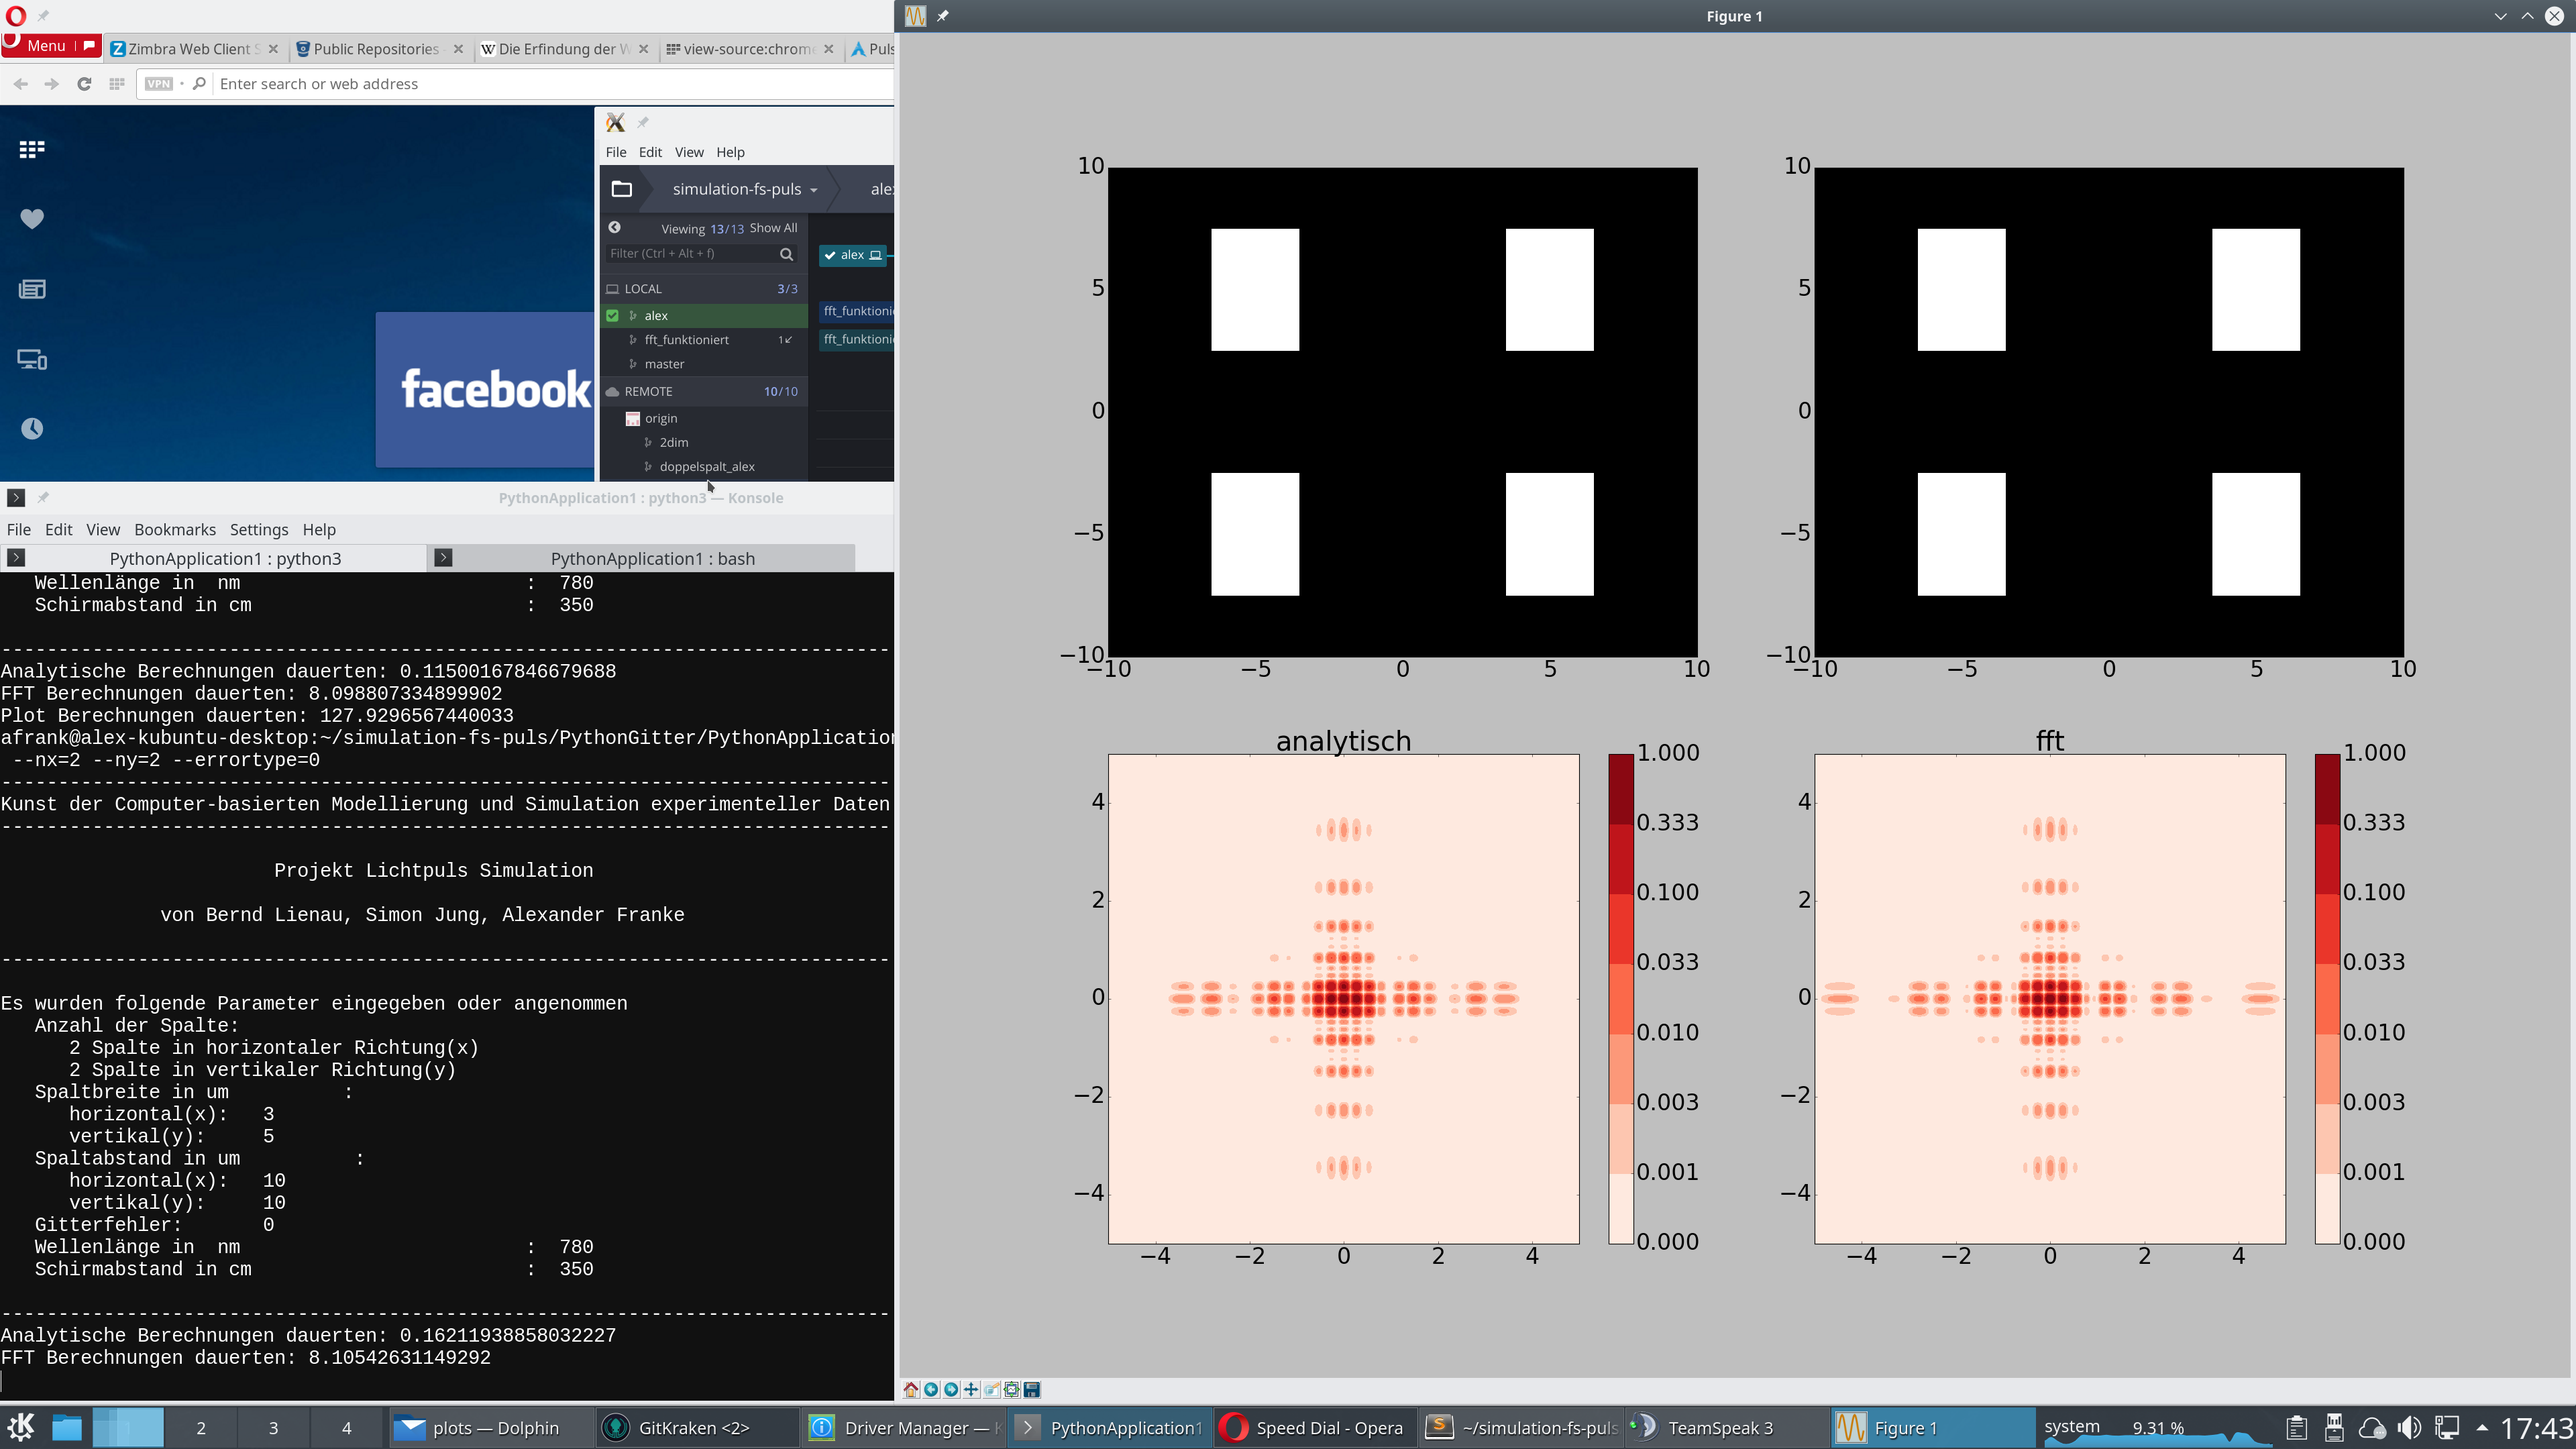
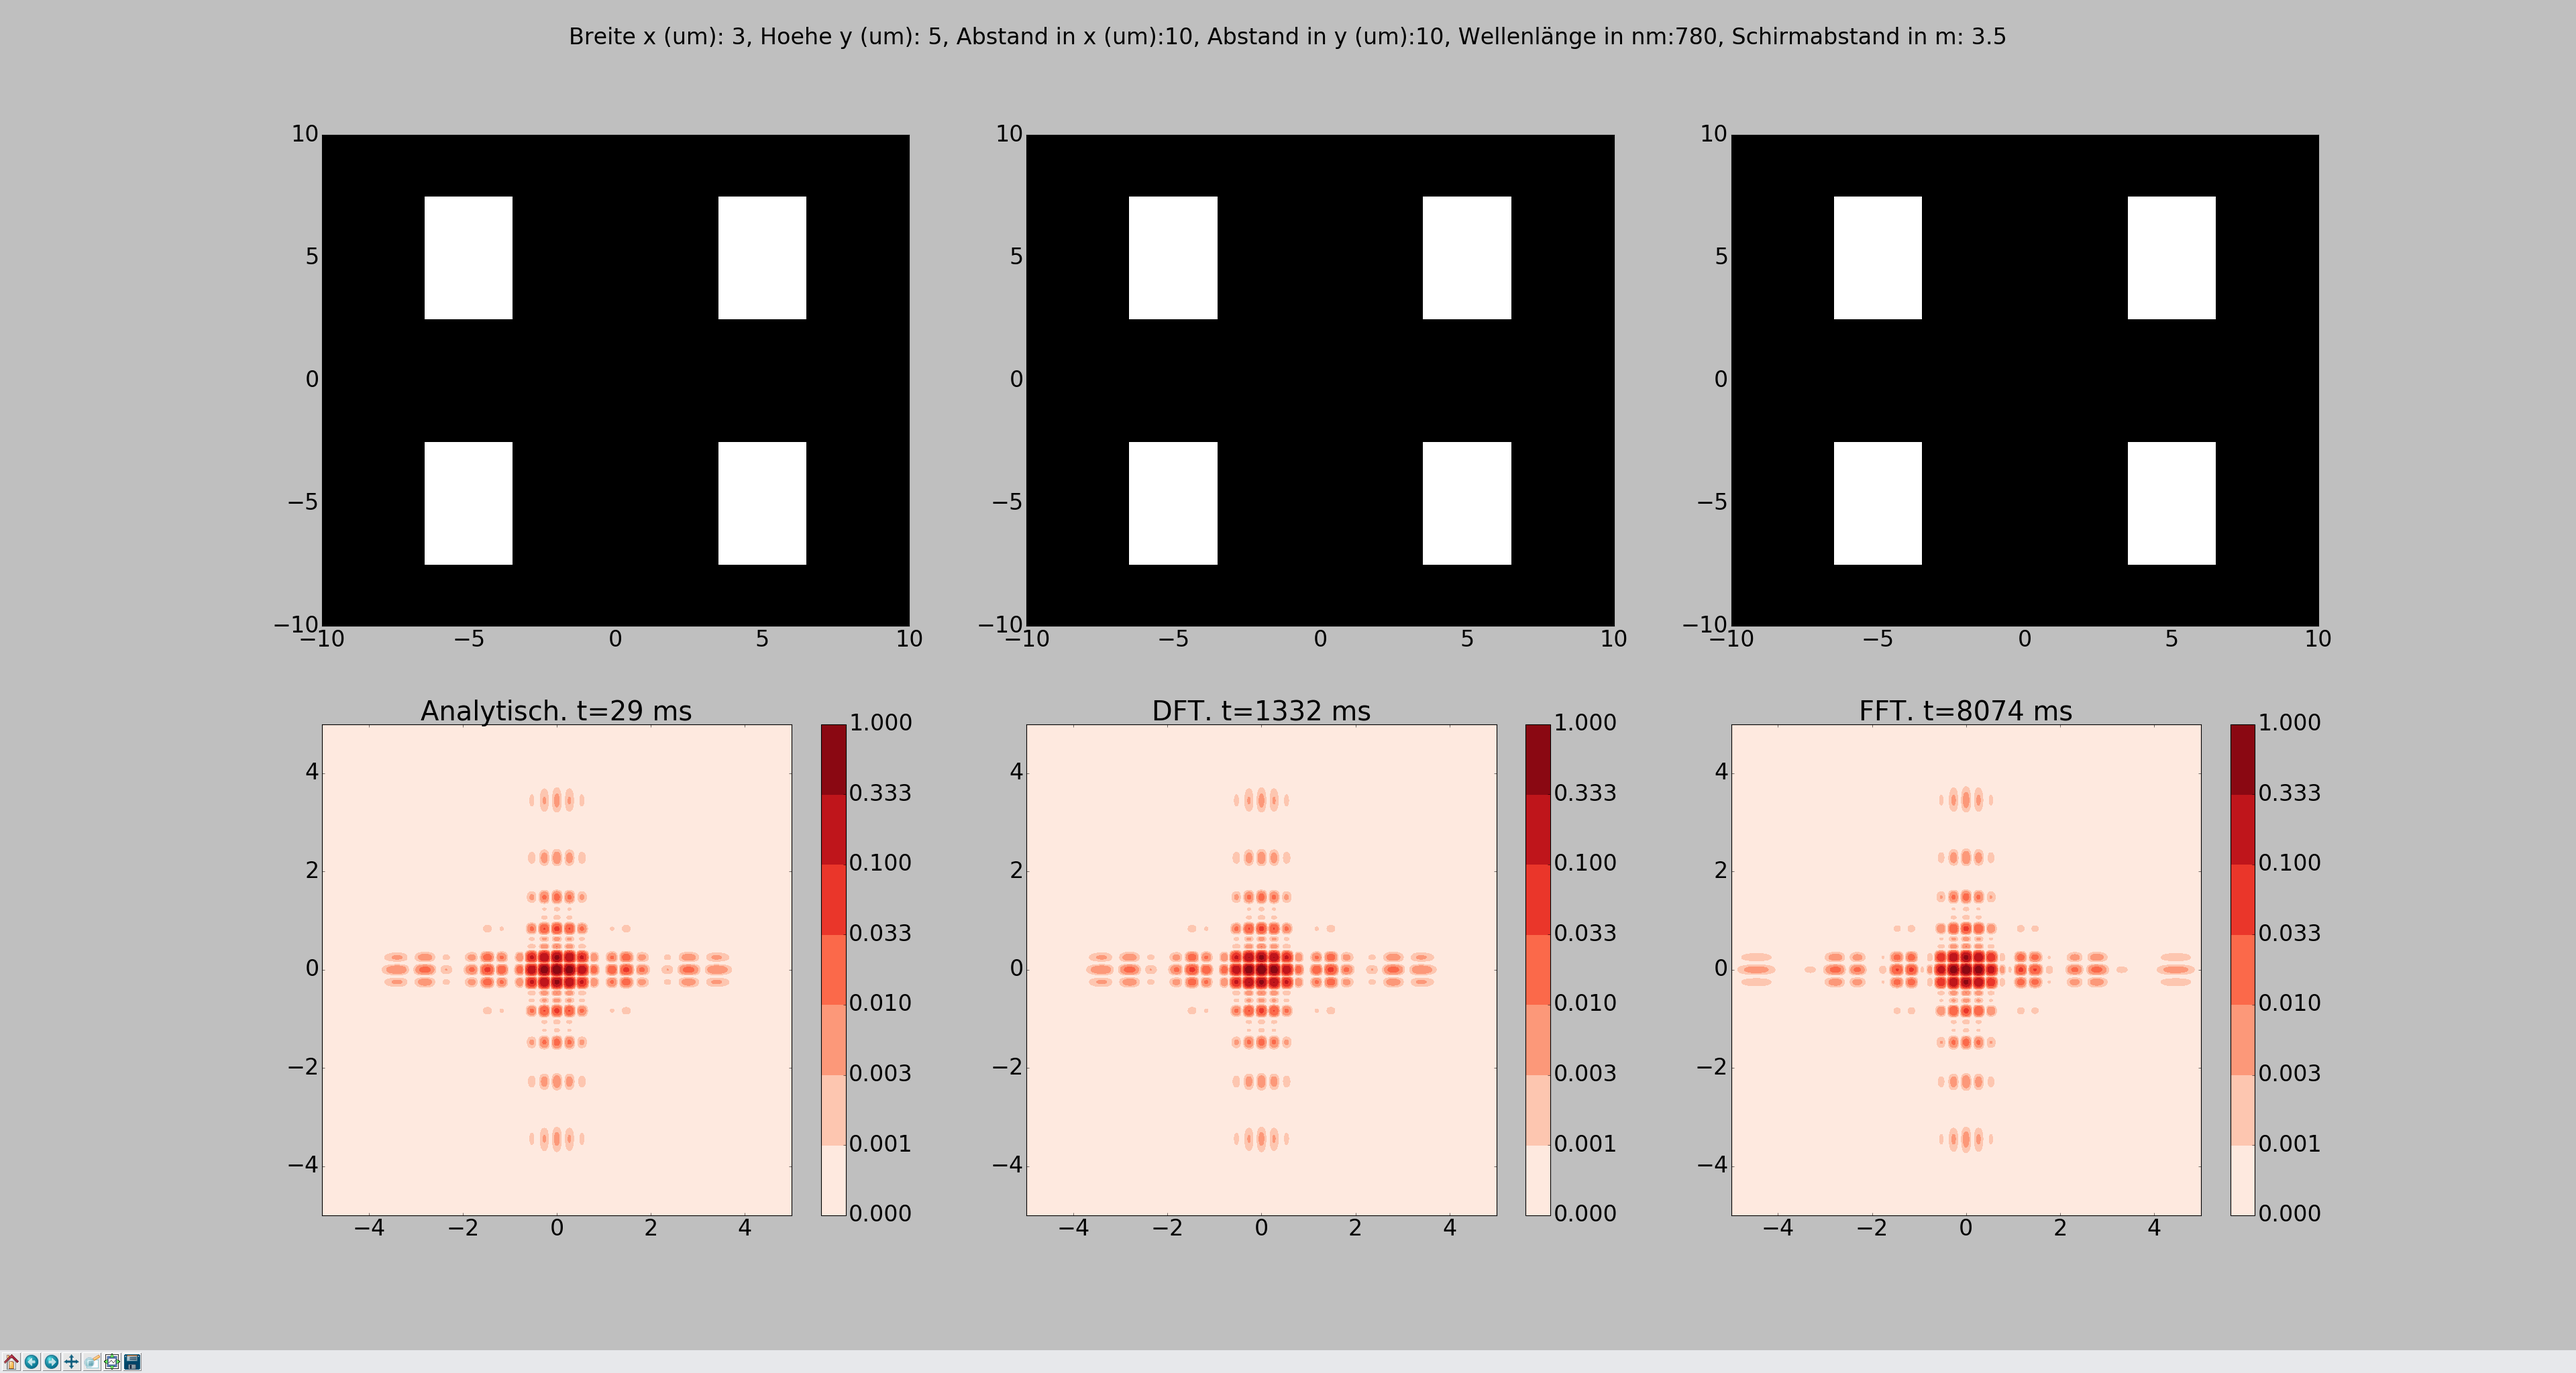
added plots. small changes in code

diff --git a/PythonGitter/PythonApplication1/PythonApplication1.py b/PythonGitter/PythonApplication1/PythonApplication1.py
@@ -60,10 +60,10 @@ def main():
 	parser.add_argument('--nx', dest='nx', help='Die Anzahl der Spalte in x-Richtung. Ganzzahlige Zahl zwischen 0 und Unendlich. 0 steht hierbei fuer einen Spalt mit unendlicher Ausdehnung.',default=1)
 	parser.add_argument('--ny', dest='ny', help='Die Anzahl der Spalte in y-Richtung. Ganzzahlige Zahl zwischen 0 und Unendlich. 0 steht hierbei fuer einen Spalt mit unendlicher Ausdehnung.',default=1)
 	parser.add_argument('--ax', dest='ax', help='Spaltbreite in um',default=3)
-	parser.add_argument('--ay', dest='ay', help='Spalthoehe in um',default=5)
-	parser.add_argument('--dx', dest='dx', help='Spaltabstand in horizontaler Richtung in um',default=10)
-	parser.add_argument('--dy', dest='dy', help='Spaltabstand in vertikaler Richtung in um',default=10)
-	parser.add_argument('--errortype', dest='errortype', help='Gitterfehlertyp',default=0)
+	parser.add_argument('--ay', dest='ay', help='Spalthoehe in um',default=3)
+	parser.add_argument('--dx', dest='dx', help='Spaltabstand in horizontaler Richtung in um',default=5)
+	parser.add_argument('--dy', dest='dy', help='Spaltabstand in vertikaler Richtung in um',default=5)
+	parser.add_argument('--errortype', dest='errortype', help='Gitterfehlertyp. 0 fuer keinen Fehler. 1 fuer zufaellige, kleine Verschiebung jedes Spaltes, 2 fuer 10% Chance fuer jedes Loch, dass es nicht existiert (Fehlstellen)',default=0)
 	parser.add_argument('--wl', dest='wl',help='Wellenlänge in nm',default=780 )
 	parser.add_argument('--abstand', dest='zs', help='Schirmabstand in cm',default=350)
 	parser.add_argument('--calctype', dest='calctype',help='Waehle aus default,canvas,periodisch,any,griderror)',default='default')
@@ -124,13 +124,13 @@ def main():
 		# Leinwand aehnlich zu mspaint. Beugungsmuster eines beliebigen Objekts
 		Main_Canvas(wl,zs)
 	elif calctype == 'default':
-		Main_Default(nx,ny,ax,ay,dx,dy,errortype,error_matrix(nx,ny),wl,zs)
+		Main_Default(nx,ny,ax,ay,dx,dy,errortype,error_matrix(nx,ny,errortype),wl,zs)
 	elif calctype == 'periodisch':
 		Main_Periodisch(nx,ny,ax,ay,dx,dy,wl,zs)
 	elif calctype == 'any':
-		Main_AnyFunction(nx,ny,ax,ay,dx,dy,errortype,error_matrix(nx,ny),wl,zs)
+		Main_AnyFunction(nx,ny,ax,ay,dx,dy,errortype,error_matrix(nx,ny,errortype),wl,zs)
 	elif calctype == 'griderror':
-		Main_compareGridError(nx,ny,ax,ay,dx,dy,errortype,error_matrix(nx,ny),wl,zs)
+		Main_compareGridError(nx,ny,ax,ay,dx,dy,errortype,error_matrix(nx,ny,errortype),wl,zs)
 		
 	#__________________________________________________________________
 	# Ende der main()
@@ -195,15 +195,29 @@ def complex_int(func, a, b, **kwargs):
 	return (real_integral[0] + i()*imag_integral[0])
 
 ### error_matrix(int nx, int ny):
-### returns: Transformiert ein fehlerfreies Gitter definiert durch die Anzahl der Spalte in x- und y-Richtung nx und ny in ein Gitter mit leicht verschobenen Loechern
-def error_matrix(nx,ny):
-	error_matrix = []
-	for i in range(ny):
-		error_row=[]
-		for j in range(nx):
-			error_row.append([[random.uniform(-0.2,0.2),random.uniform(0.9,1.1)],[random.uniform(-0.2,0.2),random.uniform(0.9,1.1)]])
-		error_matrix.append(error_row)
-	return np.array(error_matrix)
+### returns if type 1: Transformiert ein fehlerfreies Gitter definiert durch die Anzahl der Spalte in x- und y-Richtung nx und ny in ein Gitter mit leicht verschobenen Loechern
+### returns if type 2: Transformiert ein fehlerfreies Gitter definiert durch die Anzahl der Spalte in x- und y-Richtung in eines mit Fehlstellen
+
+def error_matrix(nx,ny,errortype):
+	if (errortype ==2):
+		error_matrix = []
+		for i in range(ny):
+			error_row=[]
+			for j in range(nx):
+				if(random.randint(0, 100) > 10):
+					error_row.append([[1,1,1,1]])
+				else:
+					error_row.append([[0,0,0,0]])
+			error_matrix.append(error_row)
+		return np.array(error_matrix)
+	else:
+		error_matrix = []
+		for i in range(ny):
+			error_row=[]
+			for j in range(nx):
+				error_row.append([[random.uniform(-0.2,0.2),random.uniform(0.9,1.1)],[random.uniform(-0.2,0.2),random.uniform(0.9,1.1)]])
+			error_matrix.append(error_row)
+		return np.array(error_matrix)
 
 
 ### formatSecToMillisec(float time)
@@ -493,22 +507,21 @@ def Transmission_Mittelpunkte(n,d):
 	return mittelpunkte
 
 def Transmission_n_Spalte(x,n,a,d,errortype,error_array):
-		
-	if errortype==0:  ##kein Error
-		gesamttransmission = 0.
-		
+	gesamttransmission = 0.
+	
+	if errortype == 0:  ##kein Error
 		for i in range(n):
 			gesamttransmission += Transmission_Einzelspalt(x-d*(i-n/2+0.5),a)
 	
-	elif errortype==1:
-		
-		gesamttransmission = 0.
+	elif errortype == 1:
 		for i in range(n):
 			gesamttransmission += Transmission_Einzelspalt(x+error_array[i,0]*a-d*(i-n/2+0.5),a*error_array[i,1])
 			
-	#else:
-		#errortype 2
-	
+	elif errortype == 2:
+		#there is a 10% chance that an hole is missing
+		for i in range(n):
+			gesamttransmission += Transmission_Einzelspalt(x-d*(i-n/2+0.5),a) * int(error_array[i][0])
+
 	return gesamttransmission
 
 def Transmission_Gitter(xArray,yArray,nx,ny,ax,ay,dx,dy,errortype,error_matrix):
@@ -770,8 +783,9 @@ def Main_compareGridError(nx,ny,ax,ay,dx,dy,errortype,error_matrix,wl,zs):
 def Main_Default(nx,ny,ax,ay,dx,dy,errortype,error_matrix,wl,zs):
 		
 	### Init and Parameters for plotting
-	x1  = np.linspace(-5., 5., 1200)
-	y1  = np.linspace(-5., 5., 1200)
+	resolution = 100
+	x1  = np.linspace(-5., 5., resolution)
+	y1  = np.linspace(-5., 5., resolution)
 	X,Y = np.meshgrid(x1, y1)
 	levels_screen = [0, 1./1000., 1./300., 1./100., 1./30., 1./10., 1./3., 1.]
 	cmap_lin = plt.cm.Reds
@@ -779,27 +793,28 @@ def Main_Default(nx,ny,ax,ay,dx,dy,errortype,error_matrix,wl,zs):
 
 	
 	### Objektebene
-	x_obj = np.array(np.linspace(-max(nx,ny)*max(dx,dy)/2,max(nx,ny)*max(dx,dy)/2,1200))
+	x_obj = np.array(np.linspace(-max(nx,ny)*max(dx,dy)/2,max(nx,ny)*max(dx,dy)/2,resolution))
 	y_obj = x_obj
 	x_obj_mesh, y_obj_mesh = np.meshgrid(x_obj,y_obj)
 	intensity_obj       = Transmission_Gitter(x_obj,y_obj,nx,ny,ax,ay,dx,dy,0,error_matrix)
 	intensity_obj_error = Transmission_Gitter(x_obj,y_obj,nx,ny,ax,ay,dx,dy,errortype,error_matrix)
 	
+	if errortype == 0:
 
-	### DFT
-	start_time_dft = time.time()
-	intensity_DFT  = fourierNspaltPeriodisch(x1,y1,nx,ny,ax,ay,dx,dy,wl,zs)
-	intensity_DFT /= intensity_DFT.max() #normierung
-	total_time_dft = formatSecToMillisec(time.time() - start_time_dft)
-	print("DFT Berechnung dauerte: " + total_time_dft)
-	
+		### DFT
+		start_time_dft = time.time()
+		intensity_DFT  = fourierNspaltPeriodisch(x1,y1,nx,ny,ax,ay,dx,dy,wl,zs)
+		intensity_DFT /= intensity_DFT.max() #normierung
+		total_time_dft = formatSecToMillisec(time.time() - start_time_dft)
+		print("DFT Berechnung dauerte: " + total_time_dft)
+		
 
-	### Analyisch
-	start_time_anal = time.time()
-	intensity_anal = interferenz_Gitter_analytisch(x1,y1,nx,ny,ax,ay,dx,dy,wl,zs)
-	intensity_anal /= intensity_anal.max()
-	total_time_anal = formatSecToMillisec(time.time() - start_time_anal)
-	print("Analytische Berechnung dauerte: " + total_time_anal)
+		### Analyisch
+		start_time_anal = time.time()
+		intensity_anal = interferenz_Gitter_analytisch(x1,y1,nx,ny,ax,ay,dx,dy,wl,zs)
+		intensity_anal /= intensity_anal.max()
+		total_time_anal = formatSecToMillisec(time.time() - start_time_anal)
+		print("Analytische Berechnung dauerte: " + total_time_anal)
 	
 
 	### FFT
@@ -811,30 +826,39 @@ def Main_Default(nx,ny,ax,ay,dx,dy,errortype,error_matrix,wl,zs):
 	
 	plt.figure(0)
 
-	# Die drei Objektebenen, die ersten beiden ohne Fehler (da analytisch und dft), der dritte mit Fehler (da fft)
-	plt.subplot2grid((2, 3), (0, 0))
-	plt.pcolor(x_obj_mesh*1000000, y_obj_mesh*1000000,intensity_obj, cmap='gray')
-	
-	plt.subplot2grid((2, 3), (0, 1))
-	plt.pcolor(x_obj_mesh*1000000, y_obj_mesh*1000000,intensity_obj, cmap='gray')
-	
-	plt.subplot2grid((2, 3), (0, 2))
-	plt.pcolor(x_obj_mesh*1000000, y_obj_mesh*1000000,intensity_obj_error, cmap='gray')
-	
+	if errortype == 0:
+		# Die drei Objektebenen, die ersten beiden ohne Fehler (da analytisch und dft), der dritte mit Fehler (da fft)
+		plt.subplot2grid((2, 3), (0, 0))
+		plt.pcolor(x_obj_mesh*1000000, y_obj_mesh*1000000,intensity_obj, cmap='gray')
+		
+		plt.subplot2grid((2, 3), (0, 1))
+		plt.pcolor(x_obj_mesh*1000000, y_obj_mesh*1000000,intensity_obj, cmap='gray')
+		
+		plt.subplot2grid((2, 3), (0, 2))
+		plt.pcolor(x_obj_mesh*1000000, y_obj_mesh*1000000,intensity_obj_error, cmap='gray')
+		
 
-	plt.subplot2grid((2, 3), (1, 0))
-	plt.subplot2grid((2, 3), (1, 0)).set_title("Analytisch. t=" + total_time_anal )
-	plt.contourf(X,Y,intensity_anal,levels=levels_screen,cmap=cmap_nonlin)
-	plt.colorbar()
+		plt.subplot2grid((2, 3), (1, 0))
+		plt.subplot2grid((2, 3), (1, 0)).set_title("Analytisch. t=" + total_time_anal )
+		plt.contourf(X,Y,intensity_anal,levels=levels_screen,cmap=cmap_nonlin)
+		plt.colorbar()
 
-	plt.subplot2grid((2, 3), (1, 1))
-	plt.subplot2grid((2, 3), (1, 1)).set_title("DFT. t=" + total_time_dft)
-	plt.contourf(X,Y,intensity_DFT,levels=levels_screen,cmap=cmap_nonlin)
-	plt.colorbar()
+		plt.subplot2grid((2, 3), (1, 1))
+		plt.subplot2grid((2, 3), (1, 1)).set_title("DFT. t=" + total_time_dft)
+		plt.contourf(X,Y,intensity_DFT,levels=levels_screen,cmap=cmap_nonlin)
+		plt.colorbar()
 
-	
-	plt.subplot2grid((2, 3), (1, 2))  
-	plt.subplot2grid((2, 3), (1, 2)).set_title("FFT. t=" +total_time_fft)
+		
+		plt.subplot2grid((2, 3), (1, 2))  
+		plt.subplot2grid((2, 3), (1, 2)).set_title("FFT. t=" +total_time_fft)
+	# errortype != 0, thus showing only fft
+	else:
+		plt.subplot2grid((1, 2), (0, 0))
+		plt.pcolor(x_obj_mesh*1000000, y_obj_mesh*1000000,intensity_obj_error, cmap='gray')
+
+		plt.subplot2grid((1, 2), (0, 1))
+		plt.subplot2grid((1, 2), (0, 1)).set_title("FFT. t=" +total_time_fft)
+
 	plt.contourf(XX,YY,intensity_fft,levels=levels_screen,cmap=cmap_nonlin)
 	plt.colorbar()
 	
